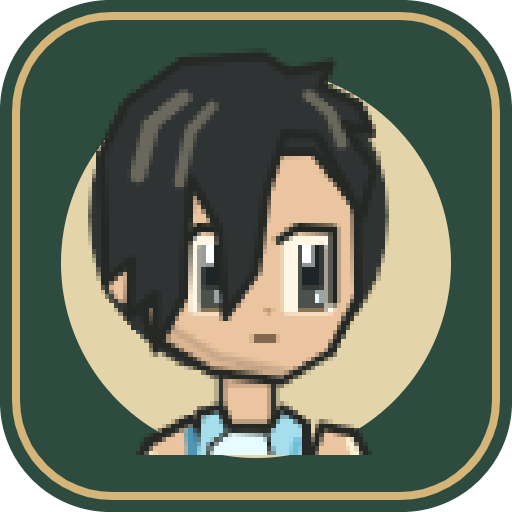
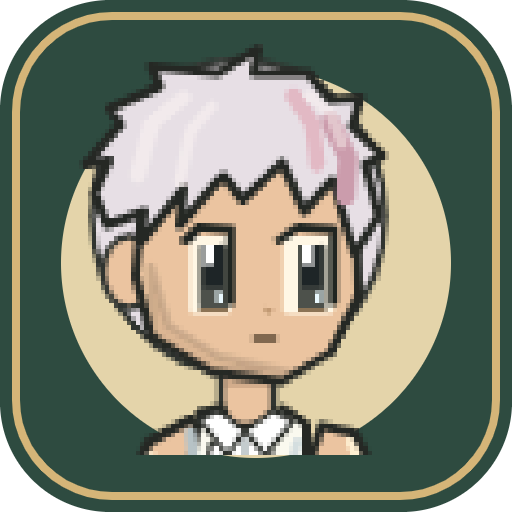
Add reference-inspired female and male character outfits

Changed region(s): [[0.1562, 0.0938, 0.7812, 0.6875], [0.3438, 0.7812, 0.5938, 0.9062]]

diff --git a/src/studio100/StudioArt.ts b/src/studio100/StudioArt.ts
@@ -158,7 +158,7 @@ export class StudentSprite {
   }
   /** Reference-led player silhouette: visible neck, separate torso/hips and planted boots. */
   private paintPlayer(time:number,walking:boolean,weapon:Weapon,attack:number,seated:boolean,pose:'uppercut'|'kick'|'dodge'|null,emptyHands:boolean):void {
-    const c=this.c,a=this.appearance,step=walking?Math.sin(time*12)*12:0;
+    const c=this.c,a=this.appearance,girl=a.sex==='female',step=walking?Math.sin(time*12)*12:0;
     c.clearRect(0,0,130,165);c.save();c.scale(.5,.5);c.translate(122,0);
     c.translate(0,walking?-Math.abs(step)*.2:Math.sin(time*2)*1);
     if(pose==='dodge'){c.translate(0,73);c.scale(1.08,.77);}
@@ -166,19 +166,27 @@ export class StudentSprite {
     const shine=(colour:string,alpha=.28)=>{c.save();c.globalAlpha=alpha;c.strokeStyle=colour;c.lineWidth=7;c.lineCap='butt';};
     // Legs remain distinct from shorts, including during the side kick.
     c.save();c.translate(-22,267+step);c.rotate(seated?1:walking?-.2: .24);
-    rounded(c,-13,0,26,33,a.skin,5);rounded(c,-17,24,37,25,'#735b37',4);line(c,[-14,44,19,44],'#382f22',5);line(c,[-11,28,5,28],'#c3a473',4);c.restore();
+    rounded(c,-13,0,26,33,a.skin,5);rounded(c,-17,girl?16:33,37,girl?33:16,girl?'#ddc45b':'#f6f3e7',4);line(c,[-14,44,19,44],girl?'#88713f':'#8e9d97',4);line(c,[-11,girl?21:38,5,girl?21:38],girl?'#fff1a0':'#ffffff',3);c.restore();
     c.save();c.translate(19,268-step);c.rotate(pose==='kick'?-1.3:seated?-1:walking?.2:-.13);
-    rounded(c,-12,0,24,31,a.skin,5);rounded(c,-15,23,43,25,'#82683e',4);line(c,[-13,44,25,44],'#382f22',5);line(c,[-10,28,7,28],'#d3b27a',4);c.restore();
-    poly([-32,246,32,246,35,272,5,276,0,263,-8,276,-37,268],'#40556b');
-    line(c,[-30,253,27,253],'#88acd0',5);line(c,[-5,262,-8,270],'#b5d0de',3);
+    rounded(c,-12,0,24,31,a.skin,5);rounded(c,-15,girl?15:32,43,girl?33:16,girl?'#e6cf67':'#f6f3e7',4);line(c,[-13,44,25,44],girl?'#88713f':'#8e9d97',4);line(c,[-10,girl?20:37,7,girl?20:37],girl?'#fff1a0':'#ffffff',3);c.restore();
+    if(girl){
+      poly([-28,242,28,242,40,272,23,278,0,274,-21,278,-40,271],'#87b762');
+      line(c,[-18,249,-23,269,0,272,25,268,17,250],'#d8edb3',4);
+      line(c,[-34,274,-18,280,1,277,21,280,38,274],'#f7f1d8',5);
+    }else{
+    poly([-32,246,32,246,35,272,5,276,0,263,-8,276,-37,268],'#4675b7');
+    line(c,[-30,253,27,253],'#b3d5f1',5);line(c,[-5,262,-8,270],'#d5e7f6',3);
+    }
     // Back arm and a neck that is not hidden inside the head or collar.
     poly([-25,202,-44,212,-54,232,-44,242,-28,234,-17,214],a.skin);
     line(c,[-43,219,-47,230],'#fff1d3',5);
     rounded(c,-11,178,24,27,a.skin,4);c.fillStyle='#74513b33';c.fillRect(-9,181,20,7);
-    poly([-21,199,-11,197,-7,206,11,206,17,197,28,204,28,226,35,248,-32,248,-26,228],'#a5dfed');
-    poly([-7,207,10,208,16,238,-20,238,-16,214],'#e6fcff',2);
-    line(c,[-25,208,-23,228,-29,243],'#4d96b4',5);line(c,[24,212,20,228,29,241],'#71bed7',4);
-    line(c,[-30,247,34,247],'#e6eff2',5);
+    poly([-21,199,-11,197,-7,206,11,206,17,197,28,204,28,226,35,248,-32,248,-26,228],girl?'#a8d783':'#faf9ef');
+    poly([-7,207,10,208,16,238,-20,238,-16,214],girl?'#def0bc':'#ffffff',2);
+    line(c,[-25,208,-23,228,-29,243],girl?'#65954d':'#b7c3c6',5);line(c,[24,212,20,228,29,241],girl?'#bce58a':'#d4dedf',4);
+    line(c,[-30,247,34,247],girl?'#f4e8c4':'#e6eff2',5);
+    if(girl){poly([-12,199,0,209,-10,218,-22,204],'#fff5df',2);poly([13,199,0,209,10,218,23,204],'#fff5df',2);ellipse(c,0,215,4,5,'#d9b669',false);}
+    else{poly([-12,198,0,207,-8,218,-21,202],'#ffffff',2);poly([13,198,0,207,9,218,22,203],'#ffffff',2);line(c,[0,212,0,232],'#8a9b9f',2);ellipse(c,3,221,2,2,'#64767c',false);}
     // Rear hair sits behind the cheek, leaving the neck open in the centre.
     c.save();c.translate(0,8);
     ellipse(c,-3,103,67,70,a.hairStyle==='bald'?a.skin:a.hair);
@@ -187,26 +195,33 @@ export class StudentSprite {
     }
     if(a.hairStyle==='curly')for(let i=0;i<10;i++){const angle=Math.PI+i*Math.PI/9;ellipse(c,Math.cos(angle)*57,98+Math.sin(angle)*52,18,19,a.hair);}
     ellipse(c,-53,128,12,16,a.skin);
-    poly([-47,95,-28,75,31,74,51,99,52,139,39,164,17,177,-15,173,-43,157,-50,130],a.skin,4);
+    poly(girl?[-47,95,-28,75,31,74,51,99,52,139,38,161,14,171,-13,170,-39,158,-50,130]:[-47,95,-28,75,31,74,51,99,52,139,39,164,17,177,-15,173,-43,157,-50,130],a.skin,4);
     c.save();c.globalAlpha=.13;poly([-43,126,-35,152,-12,166,20,173,-15,172,-43,156], '#76563e',0);c.restore();
     const blink=time>0&&!attack&&!pose&&Math.floor(time*24)%109<3;
-    for(const [x,width]of [[-16,19],[29,23]]){
+    for(const [x,width]of (girl?[[-22,27],[26,27]]:[[-16,19],[29,23]])){
       if(blink){line(c,[x-width/2,133,x+width/2,133],'#252824',4);continue;}
       rounded(c,x-width/2,112,width,35,'#fff7e5',3,false);
       rounded(c,x-5,116,13,28,'#4d514b',2,false);rounded(c,x-3,116,9,19,'#1e2527',1,false);
       rounded(c,x-3,116,5,9,'#ffffff',0,false);rounded(c,x+3,137,3,5,'#e9f8fd',0,false);
       line(c,[x-width/2-2,114,x-5,108,x+width/2,109,x+width/2,141],'#202521',4);
       line(c,[x-4,145,x+7,145],'#8b7355',2);
+      if(girl){line(c,[x-width/2-2,114,x-width/2-6,109],'#292924',3);ellipse(c,x,151,10,3,'#d7998580',false);}
     }
     line(c,[9,145,12,146],'#ad855d',2);
     if(attack||pose==='uppercut')rounded(c,6,155,11,8,'#9c6252',2);else line(c,[5,158,13,158],'#5d4934',3);
     // The swept style follows the long side fringe and irregular tips of the supplied reference.
     if(a.hairStyle!=='bald'){
       if(a.hairStyle==='swept')poly([-64,106,-66,76,-54,52,-29,34,8,31,20,39,39,35,35,45,52,53,58,66,45,62,59,82,53,104,44,86,33,67,18,66,10,92,5,128,-9,148,-12,109,-25,86,-28,139,-41,163,-41,138,-53,148,-52,123,-64,133],a.hair);
-      else if(a.hairStyle==='short')poly([-63,107,-61,66,-34,40,8,37,44,52,60,82,56,113,38,84,26,99,5,77,-18,100,-29,82,-45,115],a.hair);
+      else if(a.hairStyle==='short')poly([-63,107,-69,93,-62,78,-73,80,-57,62,-62,55,-39,45,-43,36,-12,39,6,28,4,39,29,39,39,51,53,50,49,63,63,76,55,80,61,103,50,120,40,87,27,101,17,79,-1,96,-10,85,-30,107,-28,91,-48,115,-46,101],a.hair);
       else if(a.hairStyle==='curly'){for(let i=0;i<5;i++)ellipse(c,-43+i*23,84+(i%2)*9,17,19,a.hair);}
+      else if(girl&&a.hairStyle==='bob'){
+        poly([-63,122,-62,72,-51,52,-30,38,13,37,40,48,57,71,61,123,51,148,41,154,47,113,37,90,29,105,15,101,11,91,3,104,-9,102,-16,92,-24,105,-37,101,-42,90,-48,115,-44,151,-56,142],a.hair);
+        line(c,[-35,56,-37,76,-33,91],'#ad91a466',3);line(c,[-13,49,-14,70,-11,90],'#ad91a433',3);
+      }
       else poly([-63,118,-62,64,-32,41,20,40,54,64,61,115,39,87,25,118,8,91,-5,122,-15,88,-39,137,-46,165,-51,128],a.hair);
-      shine('#fff0c3');line(c,[-49,85,-43,62,-28,50],'#fff0c3',7);line(c,[-30,88,-25,65,-15,54],'#fff0c3',5);line(c,[29,49,39,57,44,70],'#fff0c3',5);c.restore();
+      if(!girl&&a.hair==='#e7dfe5'){line(c,[39,61,47,77,46,94],'#cb9cac',9);line(c,[22,49,31,62,33,80],'#e2b9c4',7);}
+      shine(girl?'#ffffff':'#fff8f5',girl?.5:.45);line(c,[-49,85,-43,62,-28,50],girl?'#ffffff':'#fff8f5',7);line(c,[-30,88,-25,65,-15,54],girl?'#ffffff':'#fff8f5',5);line(c,[29,49,39,57,44,70],girl?'#fffafa':'#fff8f5',5);c.restore();
+      if(girl){poly([-45,52,-66,40,-69,58,-48,63],'#dfc6ca',3);poly([-44,51,-32,33,-23,47,-42,62],'#eedbe0',3);ellipse(c,-45,55,7,7,'#f5e6c8');}
     }
     c.restore();
     // Bent front arm holds an unmistakable writing tool across the waist.

diff --git a/src/studio100/StudioGame.ts b/src/studio100/StudioGame.ts
@@ -346,7 +346,7 @@ export class StudioGame {
     if(this.modal==='character') {
       if(action==='random-character') {const pick=<T,>(values:readonly T[])=>values[Math.floor(Math.random()*values.length)];this.characterDraft={sex:pick(['male','female'] as const),hairStyle:pick(HAIR_STYLES),skin:pick(SKIN_COLOURS),hair:pick(HAIR_COLOURS)};this.open('character');return;}
       if(action==='save-character') {this.state.appearance={...this.characterDraft};this.state.characterCreated=true;this.studentArt.setAppearance(this.state.appearance);this.persist();this.close();this.refresh();return;}
-      if(action.startsWith('appearance:')) {const [,key,value]=action.split(':');if(['sex','hairStyle','skin','hair'].includes(key)){this.characterDraft=sanitizeAppearance({...this.characterDraft,[key]:value});this.open('character');}return;}
+      if(action.startsWith('appearance:')) {const [,key,value]=action.split(':');if(['sex','hairStyle','skin','hair'].includes(key)){this.characterDraft=sanitizeAppearance({...this.characterDraft,...(key==='sex'?{hairStyle:value==='female'?'bob':'short',hair:'#e7dfe5'}:{}),[key]:value});this.open('character');}return;}
       if(action==='close' && this.state.characterCreated){this.close();return;}
       return;
     }

diff --git a/src/studio100/CharacterAppearance.ts b/src/studio100/CharacterAppearance.ts
@@ -1,9 +1,9 @@
 import type { TeacherLook } from './Teachers';
 export const HAIR_STYLES = ['short','swept','bob','long','curly','bald'] as const;
 export const SKIN_COLOURS = ['#f5dbb6','#ebc4a0','#d8aa83','#bd8b64','#936341','#62412e'] as const;
-export const HAIR_COLOURS = ['#303333','#684735','#ac7845','#d2bd82','#c1bbb4','#72618e'] as const;
+export const HAIR_COLOURS = ['#303333','#684735','#ac7845','#d2bd82','#c1bbb4','#72618e','#e7dfe5'] as const;
 export interface CharacterAppearance { sex:'male'|'female'; hairStyle:TeacherLook['hairStyle']; skin:string; hair:string }
-export const defaultAppearance = (): CharacterAppearance => ({sex:'male',hairStyle:'swept',skin:SKIN_COLOURS[1],hair:HAIR_COLOURS[0]});
+export const defaultAppearance = (): CharacterAppearance => ({sex:'male',hairStyle:'short',skin:SKIN_COLOURS[1],hair:HAIR_COLOURS[6]});
 export function sanitizeAppearance(raw: unknown): CharacterAppearance {
   const result=defaultAppearance(); if(!raw || typeof raw!=='object')return result;
   const value=raw as Partial<CharacterAppearance>;
